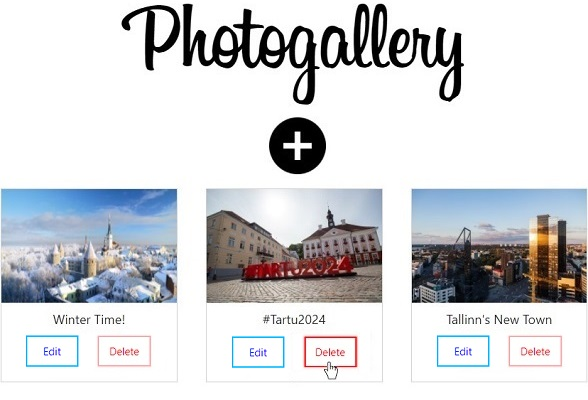
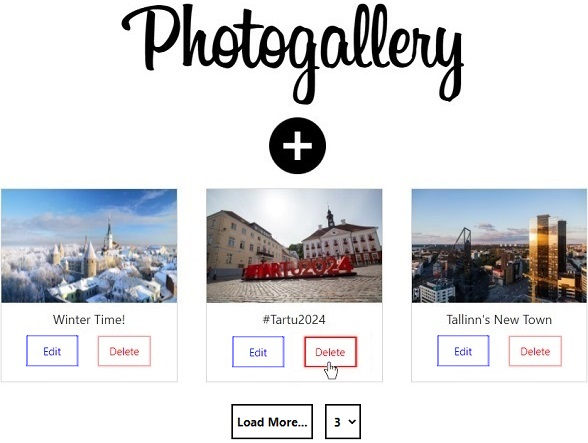
Load More included

diff --git a/PhotoGallery/ClientApp/src/App.js b/PhotoGallery/ClientApp/src/App.js
@@ -5,6 +5,7 @@ import NewPhoto from "./components/NewPhoto";
 import EditPhoto from "./components/EditPhoto";
 import { Route } from 'react-router-dom';
 import axios from 'axios';
+import LoadMore from "./components/LoadMore";
 
 class App extends Component{
 
@@ -13,46 +14,38 @@ class App extends Component{
 
         //#region state declaration
         this.state = {
-            myPosts : [{
-                photoId: 0,
-                imageLink: "https://static.euronews.com/articles/stories/05/85/91/80/1440x810_cmsv2_db0d87d0-0896-5d43-b056-468d484edcc4-5859180.jpg",
-                description: "Old town in Tallinn",
-                timestamp: "2021 - 10 - 10T11: 29: 46"
-             }, 
-             {
-                photoId: 1,
-                imageLink: "https://www.usnews.com/dims4/USNEWS/298201f/2147483647/thumbnail/640x420/quality/85/?url=http%3A%2F%2Fmedia.beam.usnews.com%2F76%2F01%2Fbe89becd4c94a7f803eef2aac78e%2F180205-editorial.bc.estonia.eresidency_main.jpg",
-                description: "Tallinn's New Town",
-                timestamp: "2021 - 10 - 30T11: 29: 46"
-             },
-             {
-                photoId: 2,
-                imageLink: "https://bnn-news.com/wp-content/uploads/2019/08/1KT26AUG19I3.jpg",
-                description: "#Tartu2024",
-                timestamp: "2021 - 10 - 20T11: 29: 46"
-             }, 
-             {
-                photoId: 3,
-                imageLink: "https://media-cdn.tripadvisor.com/media/photo-s/07/25/39/7d/estonian-experience.jpg",
-                description: "Winter Time!",
-                timestamp: "2021 - 10 - 10T11: 29: 46"
-             }],
-            //Sample for another "state"
-            page: 'app'
+            myPosts : [],
+
+            loadNumber: '2',
+
+            /*Sample for another "state"*/
+            //page: 'app'
         };
         //#endregion
 
-        //These bindings are necessary to make them work in the callback
+        //These bindings are necessary to make state work in the callback
+        this.fetchData = this.fetchData.bind(this);
         this.deletePhoto = this.deletePhoto.bind(this);
+        this.handleNumber = this.handleNumber.bind(this);
+        this.refreshPage = this.refreshPage.bind(this);
         //this.navigation = this.navigation.bind(this);
     }
 
-    fetchData(){
-        axios.get(this.props.environment)
+    fetchData(loadNumber) {
+        axios.get(this.props.environment + "?skip=" + this.state.myPosts.length +
+                                           "&rowsNumber=" + loadNumber)
             .then((json) => {
-                this.setState({
-                    myPosts: json.data
-                });
+                if (json.data.length > 0) {
+                    this.setState({
+                        myPosts: this.state.myPosts.concat(json.data)
+                    });
+                }
+                else {
+                    alert(`There're no Photos to Load right now`);
+                }
+
+                //Sample for showing object on the console
+                console.dir(json.data.length);
             })
             .catch(function (error) {
                 //This catch is exectuded in case of 404 status code
@@ -68,6 +61,11 @@ class App extends Component{
         })
             .then(() => {
                 alert("Photo saved successfully");
+
+                this.state.myPosts.push({
+                    undefined //Populated by "fetchData" inside refreshPage (next instruction)
+                });
+
                 this.refreshPage(history);
             });
 
@@ -83,6 +81,7 @@ class App extends Component{
         )
             .then(() => {
                 alert("Photo updated successfully");
+
                 this.refreshPage(history);
             });
 
@@ -126,10 +125,24 @@ class App extends Component{
 
     //By default, it redirects to the root page
     refreshPage(history = null, redirectTo = '/') {
-        if (history !== null)
+        let auxLoadNumber;
+
+        auxLoadNumber = this.state.myPosts.length;
+        this.setState({
+            myPosts: [] //This way, it won't skyp any records
+        });
+
+        if (history != null)
             history.push(redirectTo);
-        
-        window.location.reload();
+
+        this.fetchData(auxLoadNumber);
+        //window.location.reload();
+    }
+
+    handleNumber(event) {
+        this.setState({
+            loadNumber: event.target.value
+        });
     }
 
     /*Sample for concise 'setState'*/
@@ -139,8 +152,8 @@ class App extends Component{
     //    })
     //}
 
-    componentDidMount(){
-        this.fetchData();
+    componentDidMount() {
+        this.fetchData(this.state.loadNumber);
 
         /*Solution with array*/
         // const posts = fetchData();
@@ -150,8 +163,11 @@ class App extends Component{
     }
 
     componentDidUpdate(prevProps, prevState){
-        console.log('Array value: ', prevState);
-        console.log('Table value:', this.state);
+
+
+        /*Sample for comparing the current state with the previous*/
+        //console.log('Array value: ', prevState);
+        //console.log('Table value:', this.state);
     }
 
     //#region Inline if with Logical && Operator
@@ -174,17 +190,21 @@ class App extends Component{
     render() {
         return (
             <React.StrictMode>
-                    
+
             <Route exact path = "/" render={() => (
                 <div>
                     <Header title = {this.props.title} />
-                
+
                     <Photogallery posts = {this.state.myPosts} 
                                   onDeletePhoto={this.deletePhoto} />
-                               {/*onNavigation = {this.navigation}*/} 
-                </div>    
+                                  {/*onNavigation = {this.navigation}*/}
+
+                    <LoadMore loadNumber={this.state.loadNumber}
+                              onHandleNumber={this.handleNumber}
+                              onFetchData={this.fetchData} />
+                </div>
             )}/>
-            
+
             {/* Curly braces '{' for history because it needs to be passed as an Object */}
             <Route path ="/NewPhoto" render= {({history}) => 
                 /*-It uses arrow function because NewPhoto is a class
@@ -204,7 +224,7 @@ class App extends Component{
                 />
             } />
 
-            {/* <Route path ="/NewPhoto" component={NewPhoto}/> */}
+            {/*<Route path ="/NewPhoto" component={NewPhoto}/>*/}
 
             </React.StrictMode>
         );

diff --git a/PhotoGallery/ClientApp/src/custom.css b/PhotoGallery/ClientApp/src/custom.css
@@ -69,7 +69,7 @@ span {
 
 .figure {
     flex-basis: calc(52% - 5.5rem);
-    border: 1px solid #d3d3d3;
+    border: 2px solid #dcdada;
     padding: 2rem;
     flex-grow: 0;
     margin: 0rem 0rem 2rem 2.5rem;
@@ -94,6 +94,11 @@ figure figcaption {
     display: inline-block;
 }
 
+.load-more {
+    text-align: center;
+    margin: 2px 0 0 -15px;
+}
+
 .button-container {
     margin: 0 auto -6px;
     display: flex;
@@ -101,43 +106,50 @@ figure figcaption {
     justify-content: center;
 }
 
-.button-edit {
-    border: 2px solid #00b9ff;
-    background: none;
+.button-load {
+    border: 2px solid black;
     flex-basis: 48%;
-    display: inline-block;
-    line-height: 2;
-    text-decoration: none;
-    padding: 5px;
-    text-align: center;
     font-size: 15px;
-    color: blue;
-    transition: all 0.2s;
-    /*box-sizing: padding-box;*/
+    color: black;
+    font-weight: bold;
 }
 
-    .button-edit:hover, .button-edit:focus {
-        border-color: blue;
-        outline: 0;
+    .button-load:hover {
+        background-color: black;
     }
 
+.button-edit {
+    border: 1px solid blue;
+    color: blue;
+}
+
+    .button-edit:hover {
+        background-color: blue;
+    }
+
+/*This is the standard button, and it's the  default for Delete*/
 button, .button {
-    border: 2px solid #ffaaaa;
+    border: 1px solid red;
     background: none;
-    flex-basis: 48%;
+    flex-basis: 34%;
     display: inline-block;
     line-height: 2;
     text-decoration: none;
     padding: 5px;
     text-align: center;
-    font-size: 15px;
+    font-size: 13px;
     color: red;
     transition: all 0.2s;
     /*box-sizing: padding-box;*/
 }
 
-    button:hover, .button:hover, button:focus, .button:focus {
-        border-color: red;
+    button:hover, .button:hover {
+        background-color: red;
+        color: white;
+    }
+
+    button:focus, .button:focus {
+        /*draws a line around the outside of an element*/
         outline: 0;
     }
 
@@ -159,6 +171,21 @@ button, .button {
     .form button:hover, .form button:active, .form button:focus {
         background: rgb(12, 8, 241);
     }
+
+select {
+    border: 2px solid black;
+    height: 44px;
+    flex-basis: 48%;
+    /*display: inline-block;*/
+    line-height: 2;
+    padding: 5px;
+    text-align: center;
+    font-size: 15px;
+    color: black;
+    font-weight: bold;
+    transition: all 0.2s;
+    /*box-sizing: padding-box;*/
+}
 
 .figure .single-photo {
     flex-basis: calc(33.333% - 4rem);

diff --git a/PhotoGallery/ClientApp/src/components/Photo.js b/PhotoGallery/ClientApp/src/components/Photo.js
@@ -7,21 +7,23 @@ function Photo(props) {
         const history = useHistory();
 
         return (
-                <figure className="figure">
+            <figure className="figure">
                     <img className="photo" src={photo.imageLink} alt={photo.description} />
 
                     <figcaption>
                         <p>{photo.description}</p>
                     </figcaption>
                     
-                <div className="button-container">
+                    <div className="button-container">
                         <button className="button-edit"
                         onClick={() =>
                             history.push(`/EditPhoto/?id=${photo.photoId}`)
                         }>
                             Edit
                         </button>
+
                         <div className="divider" />
+                        
                         <button onClick={() => {
                                 if (window.confirm('Are you sure you wish to delete this photo?'))
                                     props.onDeletePhoto(photo)
@@ -30,7 +32,7 @@ function Photo(props) {
                             Delete
                         </button>
                     </div>
-                </figure>
+            </figure>
         );
 }
 

diff --git a/PhotoGallery/ClientApp/src/components/LoadMore.js b/PhotoGallery/ClientApp/src/components/LoadMore.js
@@ -1,0 +1,36 @@
+import React from 'react';
+
+export default function LoadMore(props) {
+
+    /*Sample with const instead of hardcoded into HTML*/
+    //const options = [{
+    //        label: 2,
+    //        value: "2"
+    //      }];
+
+    return (
+        <div className="load-more">
+            <button className="button-load" onClick={() => {
+                    props.onFetchData(props.loadNumber)
+                }
+            }>
+                Load More...
+            </button>
+
+            <div className="divider" />
+
+            <select name="loadNumber"
+                id="loadNumber"
+                value={props.loadNumber}
+                onChange={props.onHandleNumber}
+            >
+                <option value="2">2</option>
+                <option value="3">3</option>
+                <option value="4">4</option>
+                {/*{options.map((option) => (
+                     <option value={option.value}>{option.label}</option>
+                   ))}*/}
+            </select>
+        </div>
+    );
+}

diff --git a/PhotoGallery/ClientApp/src/components/PhotoGallery.js b/PhotoGallery/ClientApp/src/components/PhotoGallery.js
@@ -10,9 +10,9 @@ function Photogallery(props){
             {/* <button className="addIcon" onClick={props.onNavigation}></button> */}
 
             <div className="photo-grid">
-                {/* This sorts the array in descending order */}
+                {/* Example which sorts the array in descending order */}
                 {props.posts
-                      .sort((a, b) => b.photoId - a.photoId)
+                      .sort((a, b) => b.timestamp - a.timestamp)
                       .map((post) => <Photo key = {post.photoId}
                                             photo = {post}
                                             onDeletePhoto = {props.onDeletePhoto} />)}
